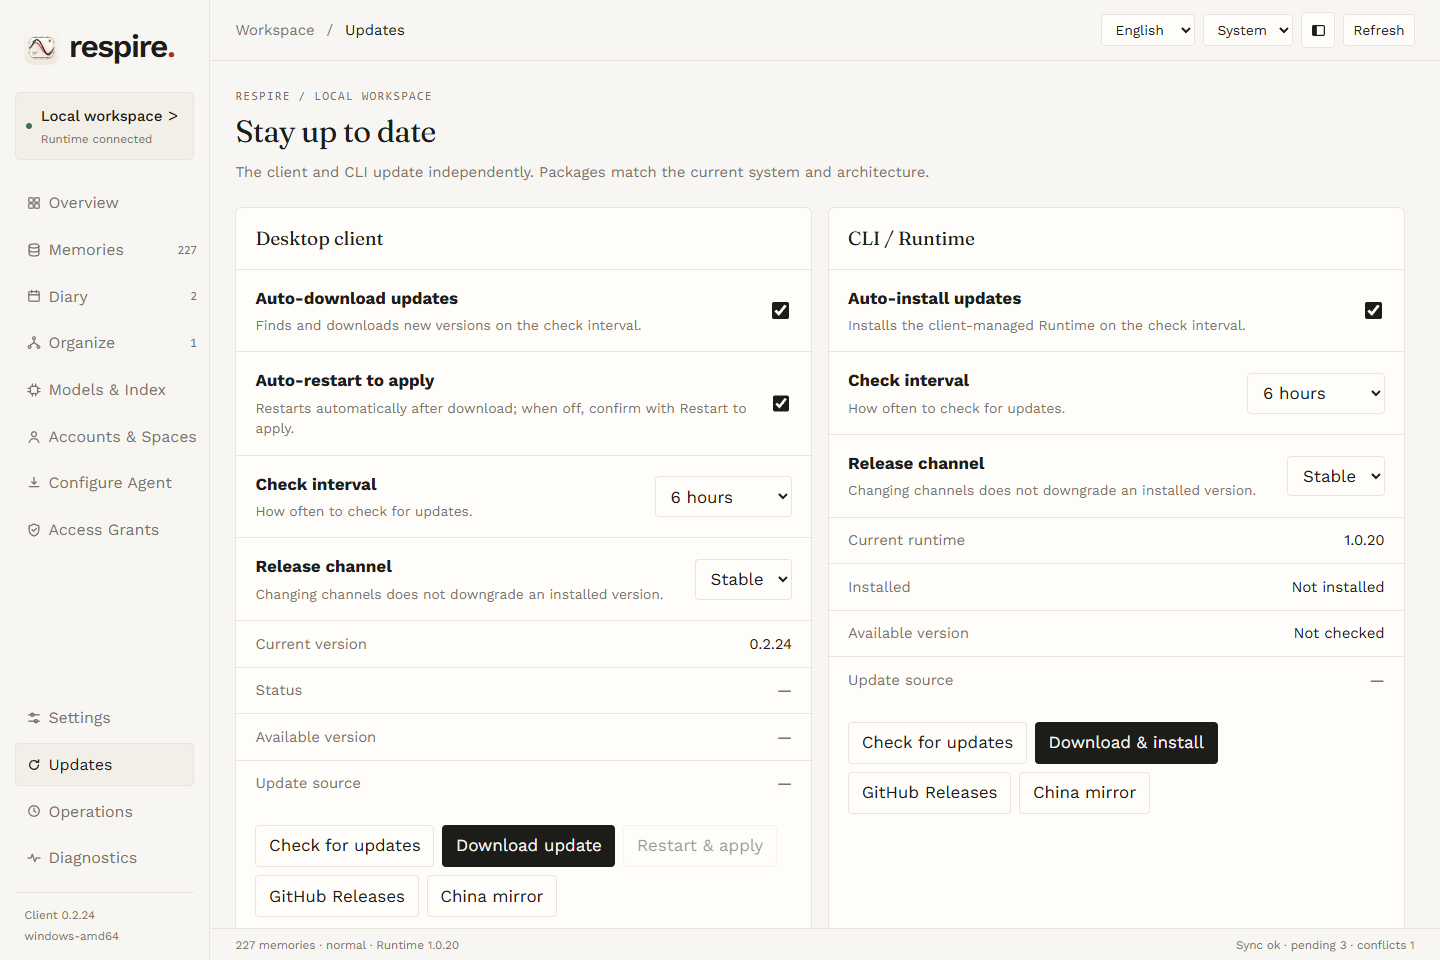
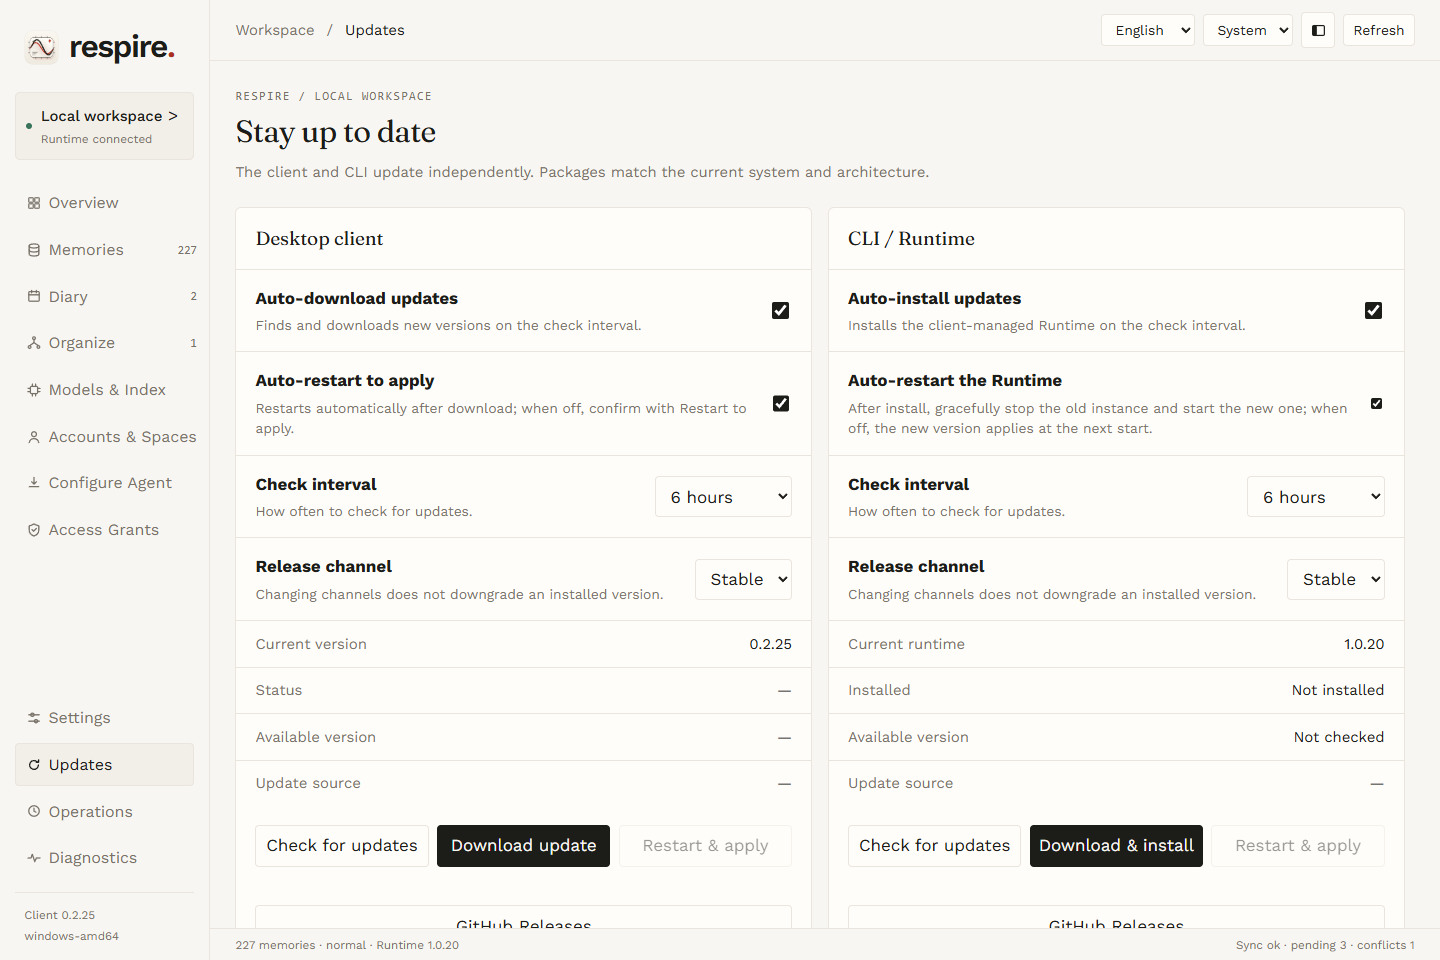
docs: explain Client 2 Runtime restart controls
Document the 0.2.25 Runtime restart preference and manual apply action, clarify directory refresh, and update the bilingual Updates screenshots.

diff --git a/docs/client.md b/docs/client.md
@@ -26,7 +26,7 @@ The graph displays up to 300 nodes per page, with cross-page relationships, zoom
 
 ## Screen walkthrough {#screen-walkthrough}
 
-The page and tray screenshots show the Client 2 0.2.24 frontend running in a browser with simulated data. Accounts, counts and task states are examples. These images illustrate the interface; they are not native acceptance results for each platform. Some interface text is still Chinese when English is selected.
+The page and tray screenshots show the Client 2 frontend running in a browser with simulated data. The Updates screenshot is from 0.2.25; the others are from 0.2.24. Accounts, counts and task states are examples. These images illustrate the interface; they are not native acceptance results for each platform. Some interface text is still Chinese when English is selected.
 
 ### Overview and tray {#overview-and-tray}
 
@@ -46,7 +46,7 @@ In **Memories**, choose tree, list, cards or graph. Select an entry to read it, 
 
 In tree and list views, click a title to open the entry, or click elsewhere on the row to select it. Hold Ctrl (Command on macOS) to select multiple entries, or Shift to select a visible range. Once multiple entries are selected, use **Merge selected**. Library search returns at most 50 results.
 
-Directory filters include type, storage area, project and tags, with a sort control. Project and tag filters use exact matches. Use **Load more** when more entries are available; these filters apply only to loaded entries.
+Directory filters include type, storage area, project and tags, with a sort control. Project and tag filters use exact matches. Use **Load more** when more entries are available; these filters apply only to loaded entries. When idle, the client attempts to reload the directory about every 30 seconds; displayed results depend on the read status.
 
 With a Runtime that supports metadata lists, the client attempts to complete the memory directory, requesting up to 100,000 entries. In sidebar layout, drag the sidebar edge to adjust its width. On the memory page, drag the divider between the directory and reader; the divider is unavailable in graph view.
 
@@ -98,7 +98,7 @@ The panel below shows sync and server settings. The address is an example.
 
 On **Configure Agent**, inspect the target, select an instruction mode and enable an agent. Review the result, then finish any host-specific installation or hook approval in the agent. Disabling an agent removes injected instructions but keeps the plugin. Changing the mode rewrites instructions for enabled agents. Review the DSH path and back it up before injection. The [plugin pages](plugins/) explain each host.
 
-Choose **Details** beside an agent to inspect its destination and plugin information. Enabling an agent can change the destination file immediately, so review existing content first. The Configure Agent page in client 0.2.24 does not offer a Codex file preview.
+Choose **Details** beside an agent to inspect its destination and plugin information. Enabling an agent can change the destination file immediately, so review existing content first. The Configure Agent page in client 0.2.25 does not offer a Codex file preview.
 
 Some targets are initially collapsed; choose **Show … more** to see them. Instruction modes are normal, read-only and off. After selecting one, choose **Apply and rewrite enabled prompts**.
 
@@ -122,9 +122,9 @@ If a write shows an unconfirmed result, choose **Query original request** in **O
 
 Settings also controls workspace mode, diary recording, fonts and reading typography. The interface language and CLI display language are configured separately. A client-settings backup does not contain memory keys; save memory exports and database backups separately.
 
-On **Updates**, configure automatic client downloads, automatic client restart and automatic installation of the client-managed Runtime separately. Choose a check interval for the client and Runtime independently. If automatic restart is off, choose **Restart & apply** after downloading; client updates are not applied while a business operation is running.
+On **Updates**, configure automatic client downloads and restarts separately from automatic installation and restart of the client-managed Runtime. Choose a check interval for each independently. If automatic client restart is off, choose **Restart & apply** in the desktop section after downloading; client updates are not applied while a business operation is running.
 
-Choose the desktop and CLI / Runtime release channels separately on **Updates**. Changing channels does not automatically downgrade an installed version.
+If automatic Runtime restart is off, the installed version applies the next time Runtime starts. When available, you can also choose **Restart & apply** in the CLI / Runtime section. Check the running version shown on the page. Choose the desktop and CLI / Runtime release channels separately; changing channels does not automatically downgrade an installed version.
 
 ![Client settings page](/client2/settings-en.png)
 

diff --git a/docs/guides/windows-install.md b/docs/guides/windows-install.md
@@ -6,7 +6,7 @@ The desktop client provides a graphical interface for getting started. Windows 1
 
 1. Open [Client 2 releases](https://github.com/risense-ai/respire-client2/releases/latest) and download the file for your processor: `respire-windows-amd64.exe` for x64 or `respire-windows-arm64.exe` for ARM64.
 2. Place the file in a permanent writable directory and run it. The desktop client does not require Node.js, npm, Go or Rust.
-3. If no Runtime is connected, open **Updates**, select **Download & install**, and check the result. Desktop and CLI releases are separate, so a desktop download does not guarantee that a matching Runtime is available.
+3. If no Runtime is connected, open **Updates**, select **Download & install**, and check the result. Desktop and CLI releases are separate, so a desktop download does not guarantee that a matching Runtime is available. For the case where automatic Runtime restart is off, see [Connect the Runtime](../getting-started.md#connect-the-runtime).
 4. Follow [Getting started](../getting-started.md#sign-in-or-create-a-local-library) to sign in or create a local library, connect an agent and save your first memory.
 
 The rest of this page covers the CLI alternative for terminal users.

diff --git a/docs/getting-started.md b/docs/getting-started.md
@@ -17,6 +17,8 @@ For example, [CLI 1.0.19](https://github.com/risense-ai/respire-cli/releases/tag
 
 On first launch, choose the interface language when prompted; you can change it later at the top right or in **Settings**. Then check the connection indicator in the sidebar. The app can connect to a compatible local Runtime. It can also download and install the matching CLI and Runtime itself; npm is not required for this installation. If no Runtime is available, open **Updates**, choose **Download & install**, and follow the displayed status. A missing release asset or incompatible version is reported in the client; see [Diagnostics](client.md#settings-updates-and-diagnostics) if it does not connect.
 
+If automatic Runtime restart is off, the installed version applies the next time Runtime starts. When available, use **Restart & apply** in the CLI / Runtime section to start the new version.
+
 Client 2 keeps its managed CLI in a versioned directory. It does not necessarily add `rsrs` to your terminal or agent PATH. If a plugin cannot find it, see [CLI access for plugins](plugins/#using-the-client-managed-cli).
 
 ![Desktop overview with Runtime and sync status](/client2/overview-en.png)

diff --git a/docs/zh/guides/windows-install.md b/docs/zh/guides/windows-install.md
@@ -6,7 +6,7 @@
 
 1. 打开 [Client 2 发布页](https://github.com/risense-ai/respire-client2/releases/latest)，下载与处理器匹配的文件：x64 选择 `respire-windows-amd64.exe`，ARM64 选择 `respire-windows-arm64.exe`。
 2. 将文件放在可写入的固定目录中，然后运行。桌面客户端不需要 Node.js、npm、Go 或 Rust。
-3. 如果尚未连接 Runtime，打开客户端的“更新”页，选择“下载并安装”，并检查结果。桌面端与 CLI 分别发布，因此客户端安装包存在不代表匹配的 Runtime 一定可用。
+3. 如果尚未连接 Runtime，打开客户端的“更新”页，选择“下载并安装”，并检查结果。桌面端与 CLI 分别发布，因此客户端安装包存在不代表匹配的 Runtime 一定可用。关闭 Runtime 自动重启时的步骤见[连接 Runtime](../getting-started.md#connect-the-runtime)。
 4. 按[快速开始](../getting-started.md#sign-in-or-create-a-local-library)登录或创建本地记忆库，再连接 Agent 并创建第一条记忆。
 
 下方是 CLI 备选方案，适合需要在终端操作的用户。

diff --git a/docs/zh/getting-started.md b/docs/zh/getting-started.md
@@ -17,6 +17,8 @@
 
 首次打开客户端时，按提示选择界面语言；之后可以在右上角或“设置”中切换。接着查看侧栏的连接状态。客户端可以连接兼容的本机 Runtime，也可以自行下载安装匹配的 CLI 和 Runtime。这个安装过程不需要 npm。如果没有可用的 Runtime，请打开“更新”，选择“下载并安装”，并查看页面显示的进度和结果。缺少发布文件或版本不兼容时，客户端会显示错误；无法连接时可查看[诊断说明](client.md#settings-updates-and-diagnostics)。
 
+如果关闭了 Runtime 自动重启，安装后的版本会在下次启动 Runtime 时生效。CLI / Runtime 区域的“重启并应用”可用时，也可以用它启动新版本。
+
 Client 2 将 CLI 保存在带版本号的目录中，不一定会把 `rsrs` 加入终端或 Agent 的 PATH。如果插件找不到它，请参阅[插件如何使用客户端管理的 CLI](plugins/#using-the-client-managed-cli)。
 
 ![桌面端概览及 Runtime、同步状态](/client2/overview-zh.png)

diff --git a/.audit/report.md b/.audit/report.md
@@ -1,5 +1,9 @@
 # 文档审查报告
 
+## Client 2 0.2.25 版本更新
+
+发布版 `v0.2.25` 对应提交 `cb8c0558f634bdbe1ac28a009df1af7708c9b589`。新增 Runtime 自动重启开关与手动应用按钮；关闭开关后，新版本留待下次启动。文档已区分客户端和 Runtime 的更新操作，并补充目录空闲刷新说明。更新页截图使用 0.2.25 前端；其他截图仍为 0.2.24。所有截图使用模拟数据，未执行真实更新或重启。
+
 ## Client 2 0.2.24 版本更新
 
 补充检查 Windows 独立 CLI 指南：原示例直接对所有检测到的 Agent 注入，可能覆盖 DSH 的目标文件；检查清单还直接执行新库密钥生成。已改为先查看目标、按需备份并选择单个宿主，并把新库初始化与已有账户登录分开。依据为 CLI `v1.0.19` 的 `crates/app/src/inject.rs`；未实际执行注入或密钥生成。
